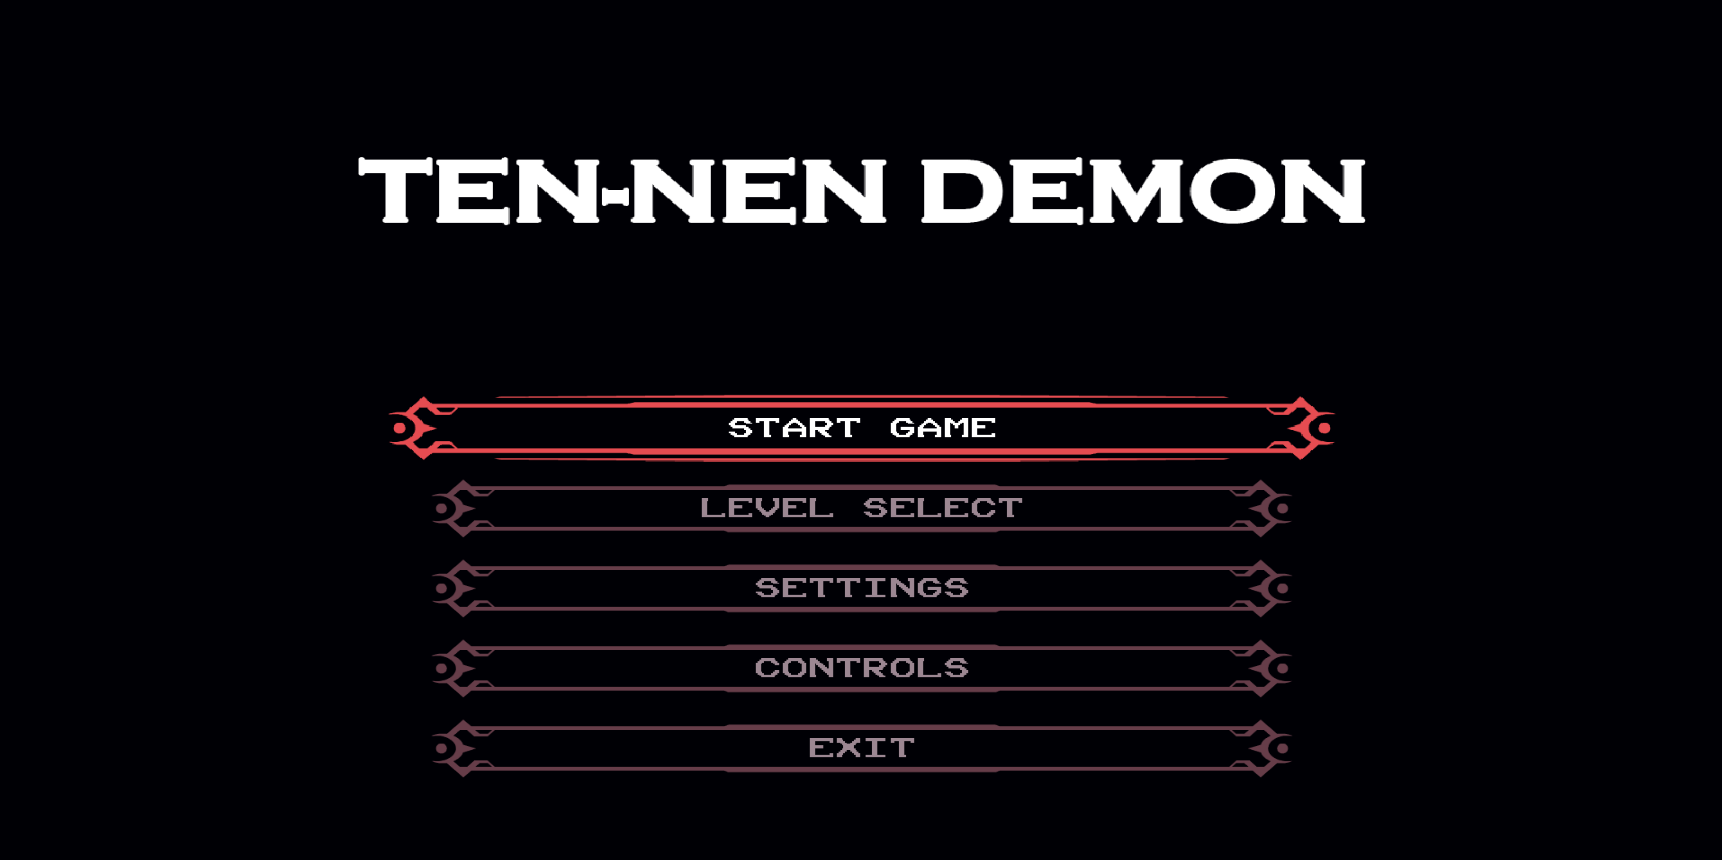
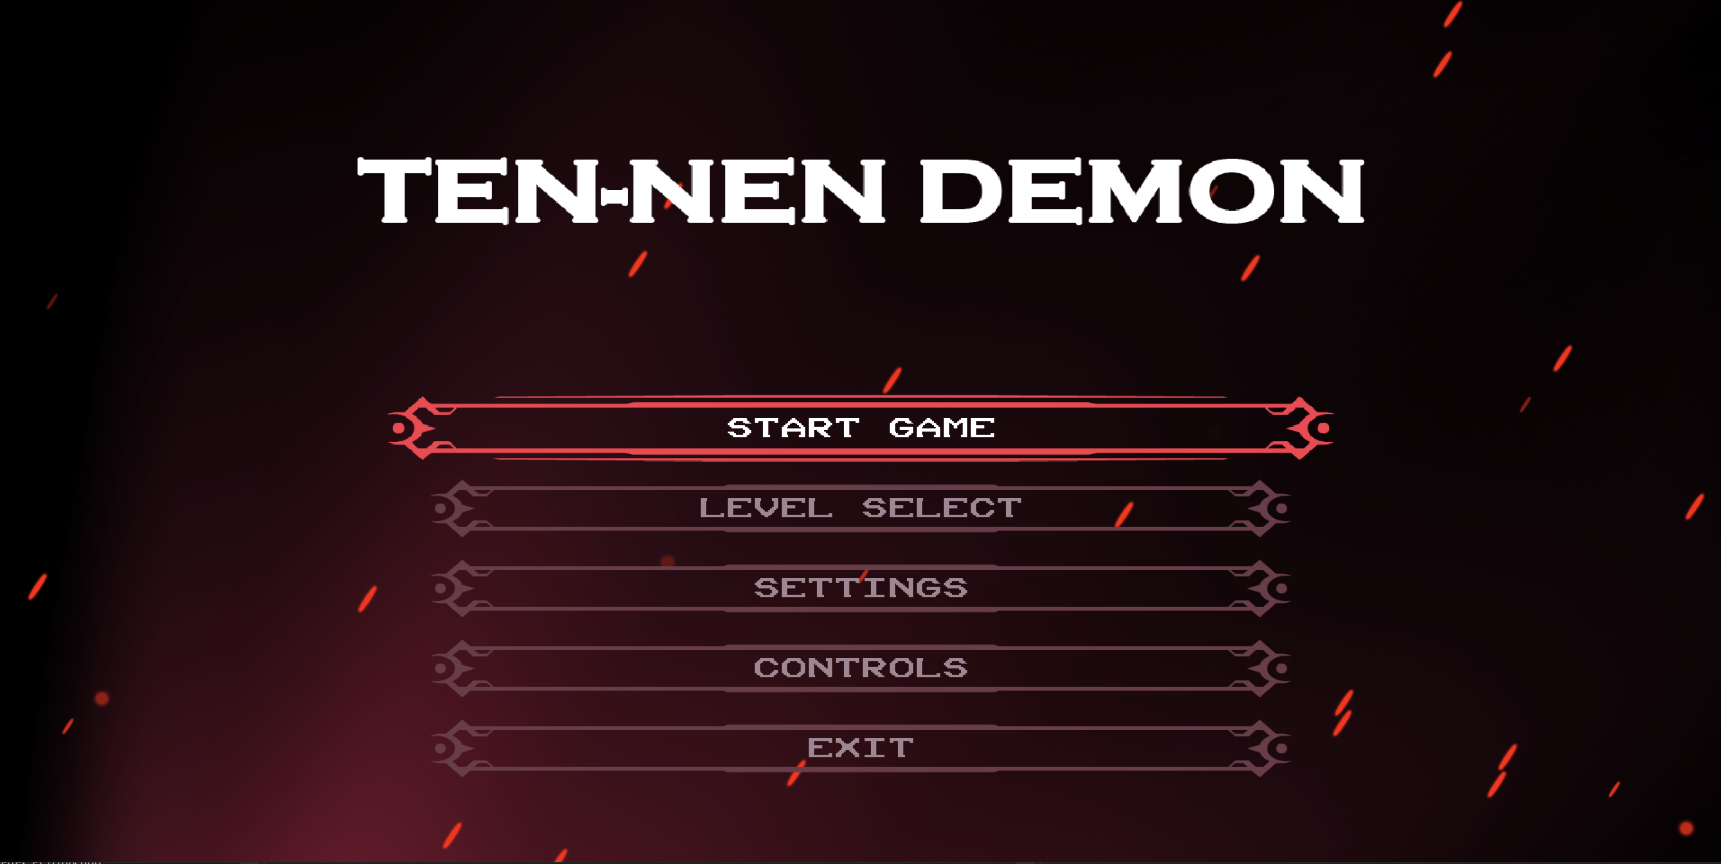
Updated dfs page

diff --git a/projects/TenNenDemon.html b/projects/TenNenDemon.html
@@ -114,6 +114,7 @@
               <li><strong>Platform</strong>: PC<li>
               <li><strong>Date</strong>: May 2020 - July 2020</li>
               <li><strong>Language</strong>: C++</li>
+              <li><a href="https://drive.google.com/file/d/1D9-XlelMT1ukiX4AG_R4kchrVbrnn1ZI/view?usp=sharing" class="simple-button" target="_blank">Download</a></li>
             </ul>
           </div>
 		</div>
@@ -289,7 +290,7 @@ class Emitter
 public:
 	// Base
 	Vec3 m_position = Vec3::ZERO;
-	Vec3 m_scale = Vec3::ZERO;
+	Vec3 m_scale = Vec3::ONE;
 	float m_velocity = 5.f; // angle relative to system and float speed
 	float m_maxOrientation = 90.f;
 	float m_minOrientation = 0.f;

diff --git a/projects/HaberDashers.html b/projects/HaberDashers.html
@@ -113,7 +113,7 @@
               <li><strong>Genre</strong>: Arcade Racing Game</li>
               <li><strong>Platform</strong>: PC<li>
               <li><strong>RTM Date</strong>: May 2020</li>
-              <li><strong>Team Size</strong>: 60</li>
+              <li><strong>Team Size</strong>: 56</li>
               <li><strong>Develop Time</strong>: 12 Weeks</li>
 			  <li><a href="https://store.steampowered.com/app/1062100/HaberDashers/" class="simple-button" target="_blank">Steam Page</a></li>
             </ul>
